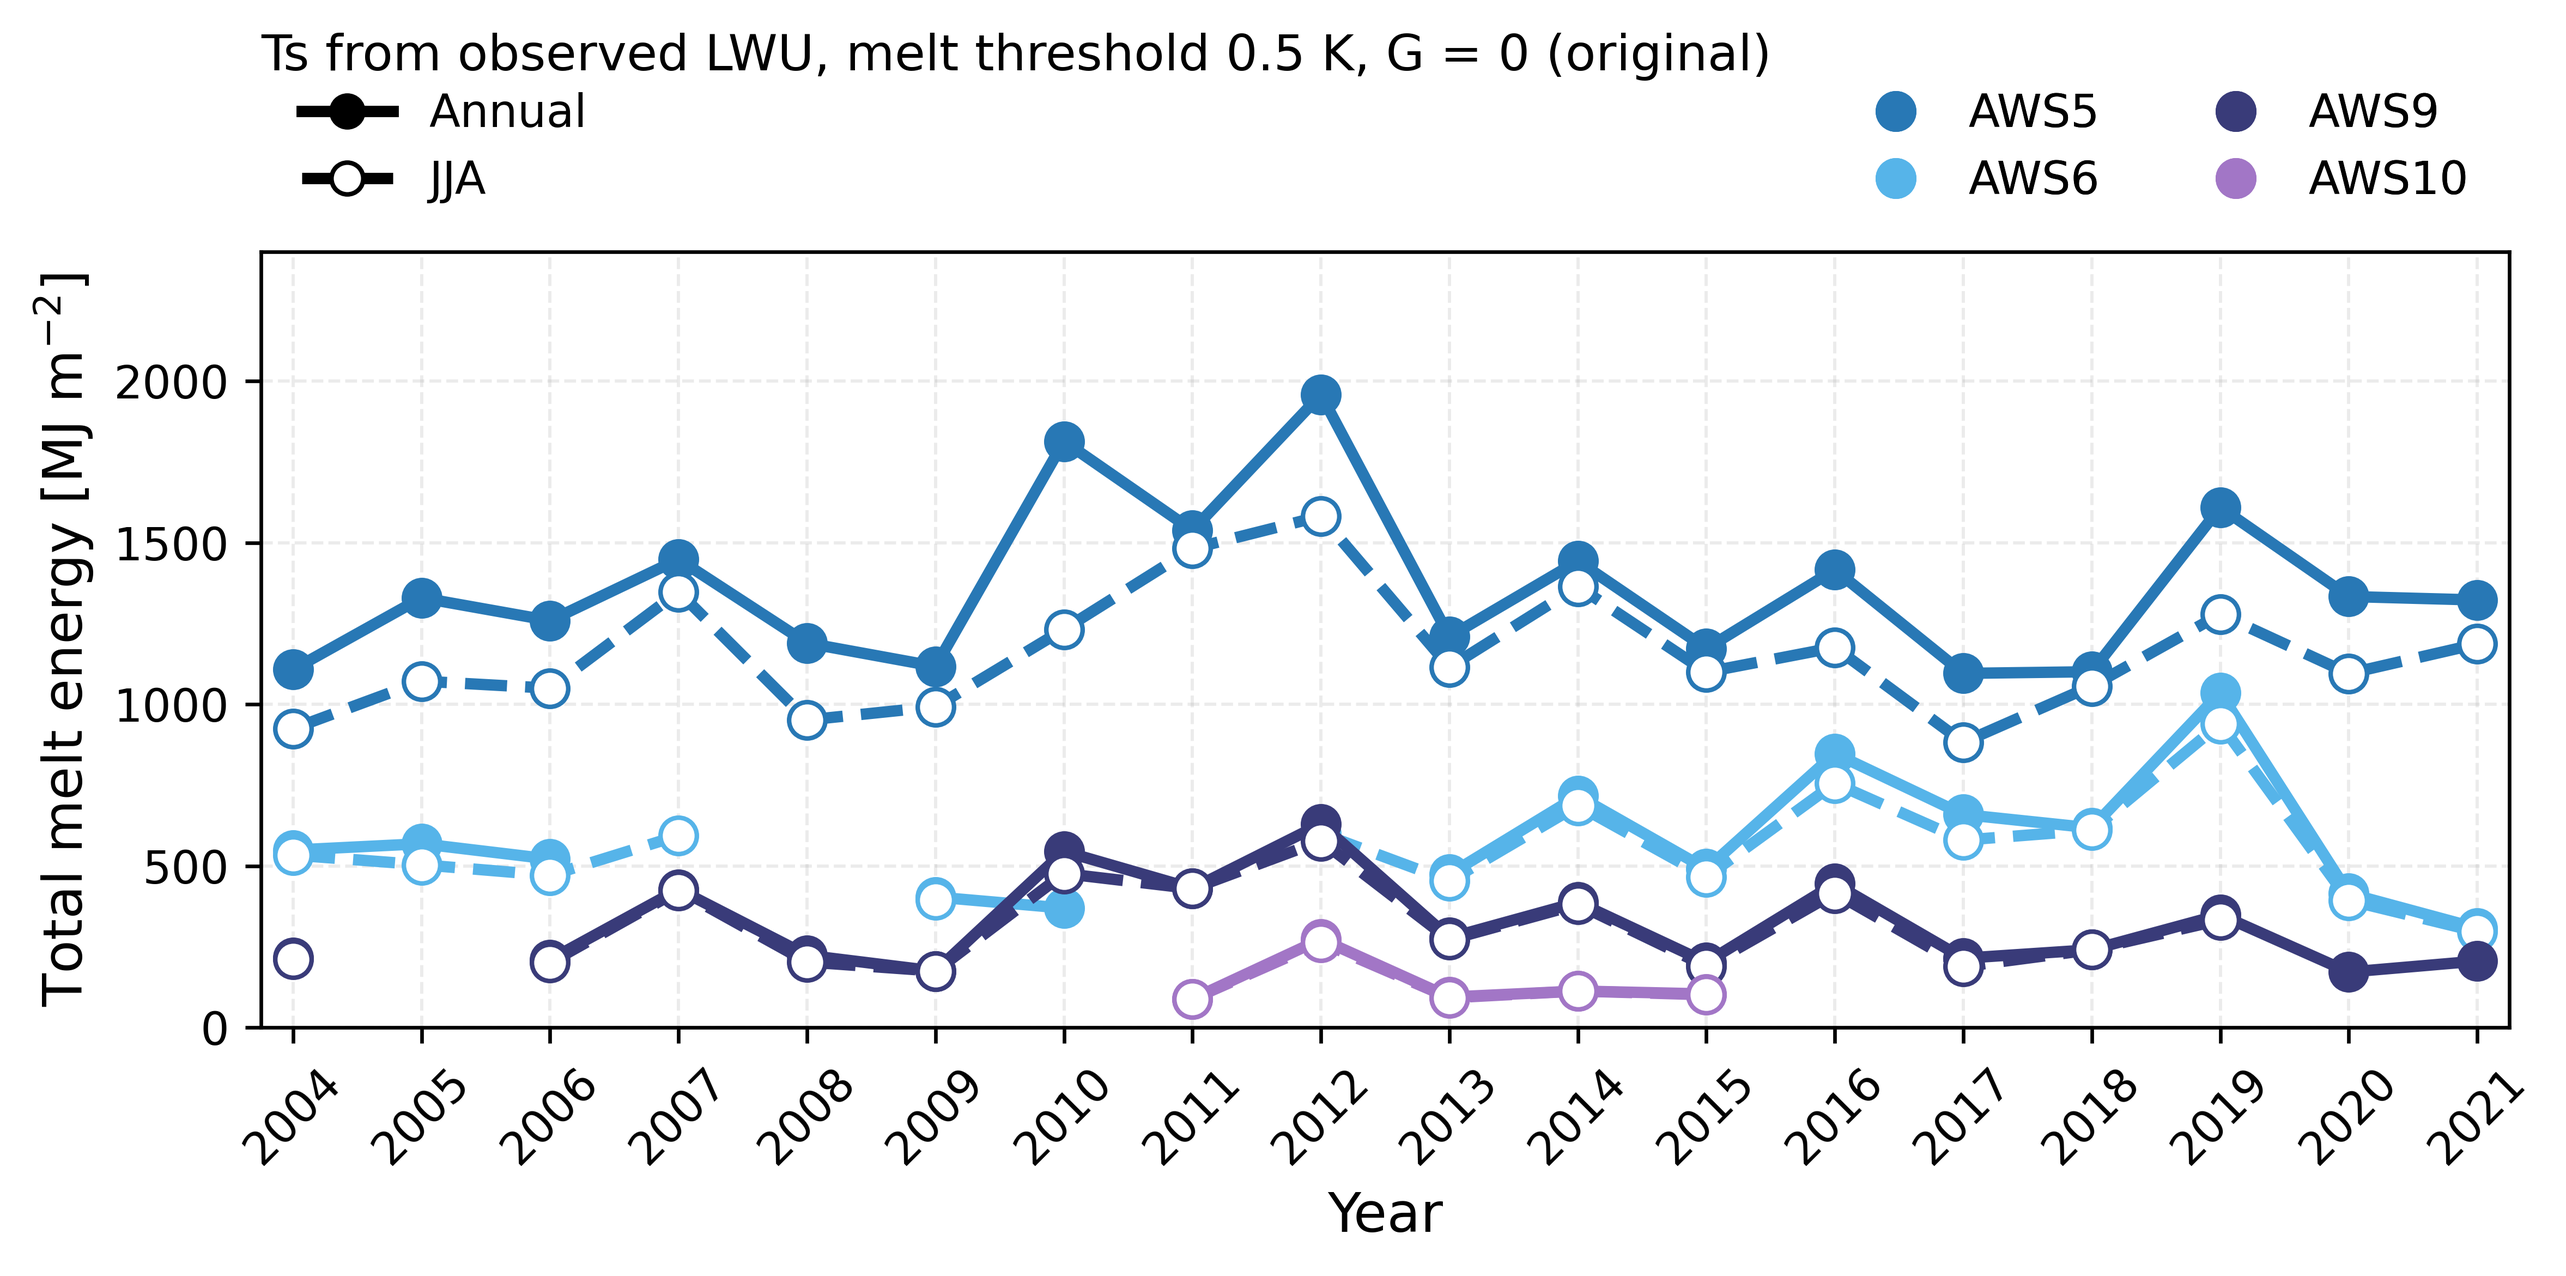
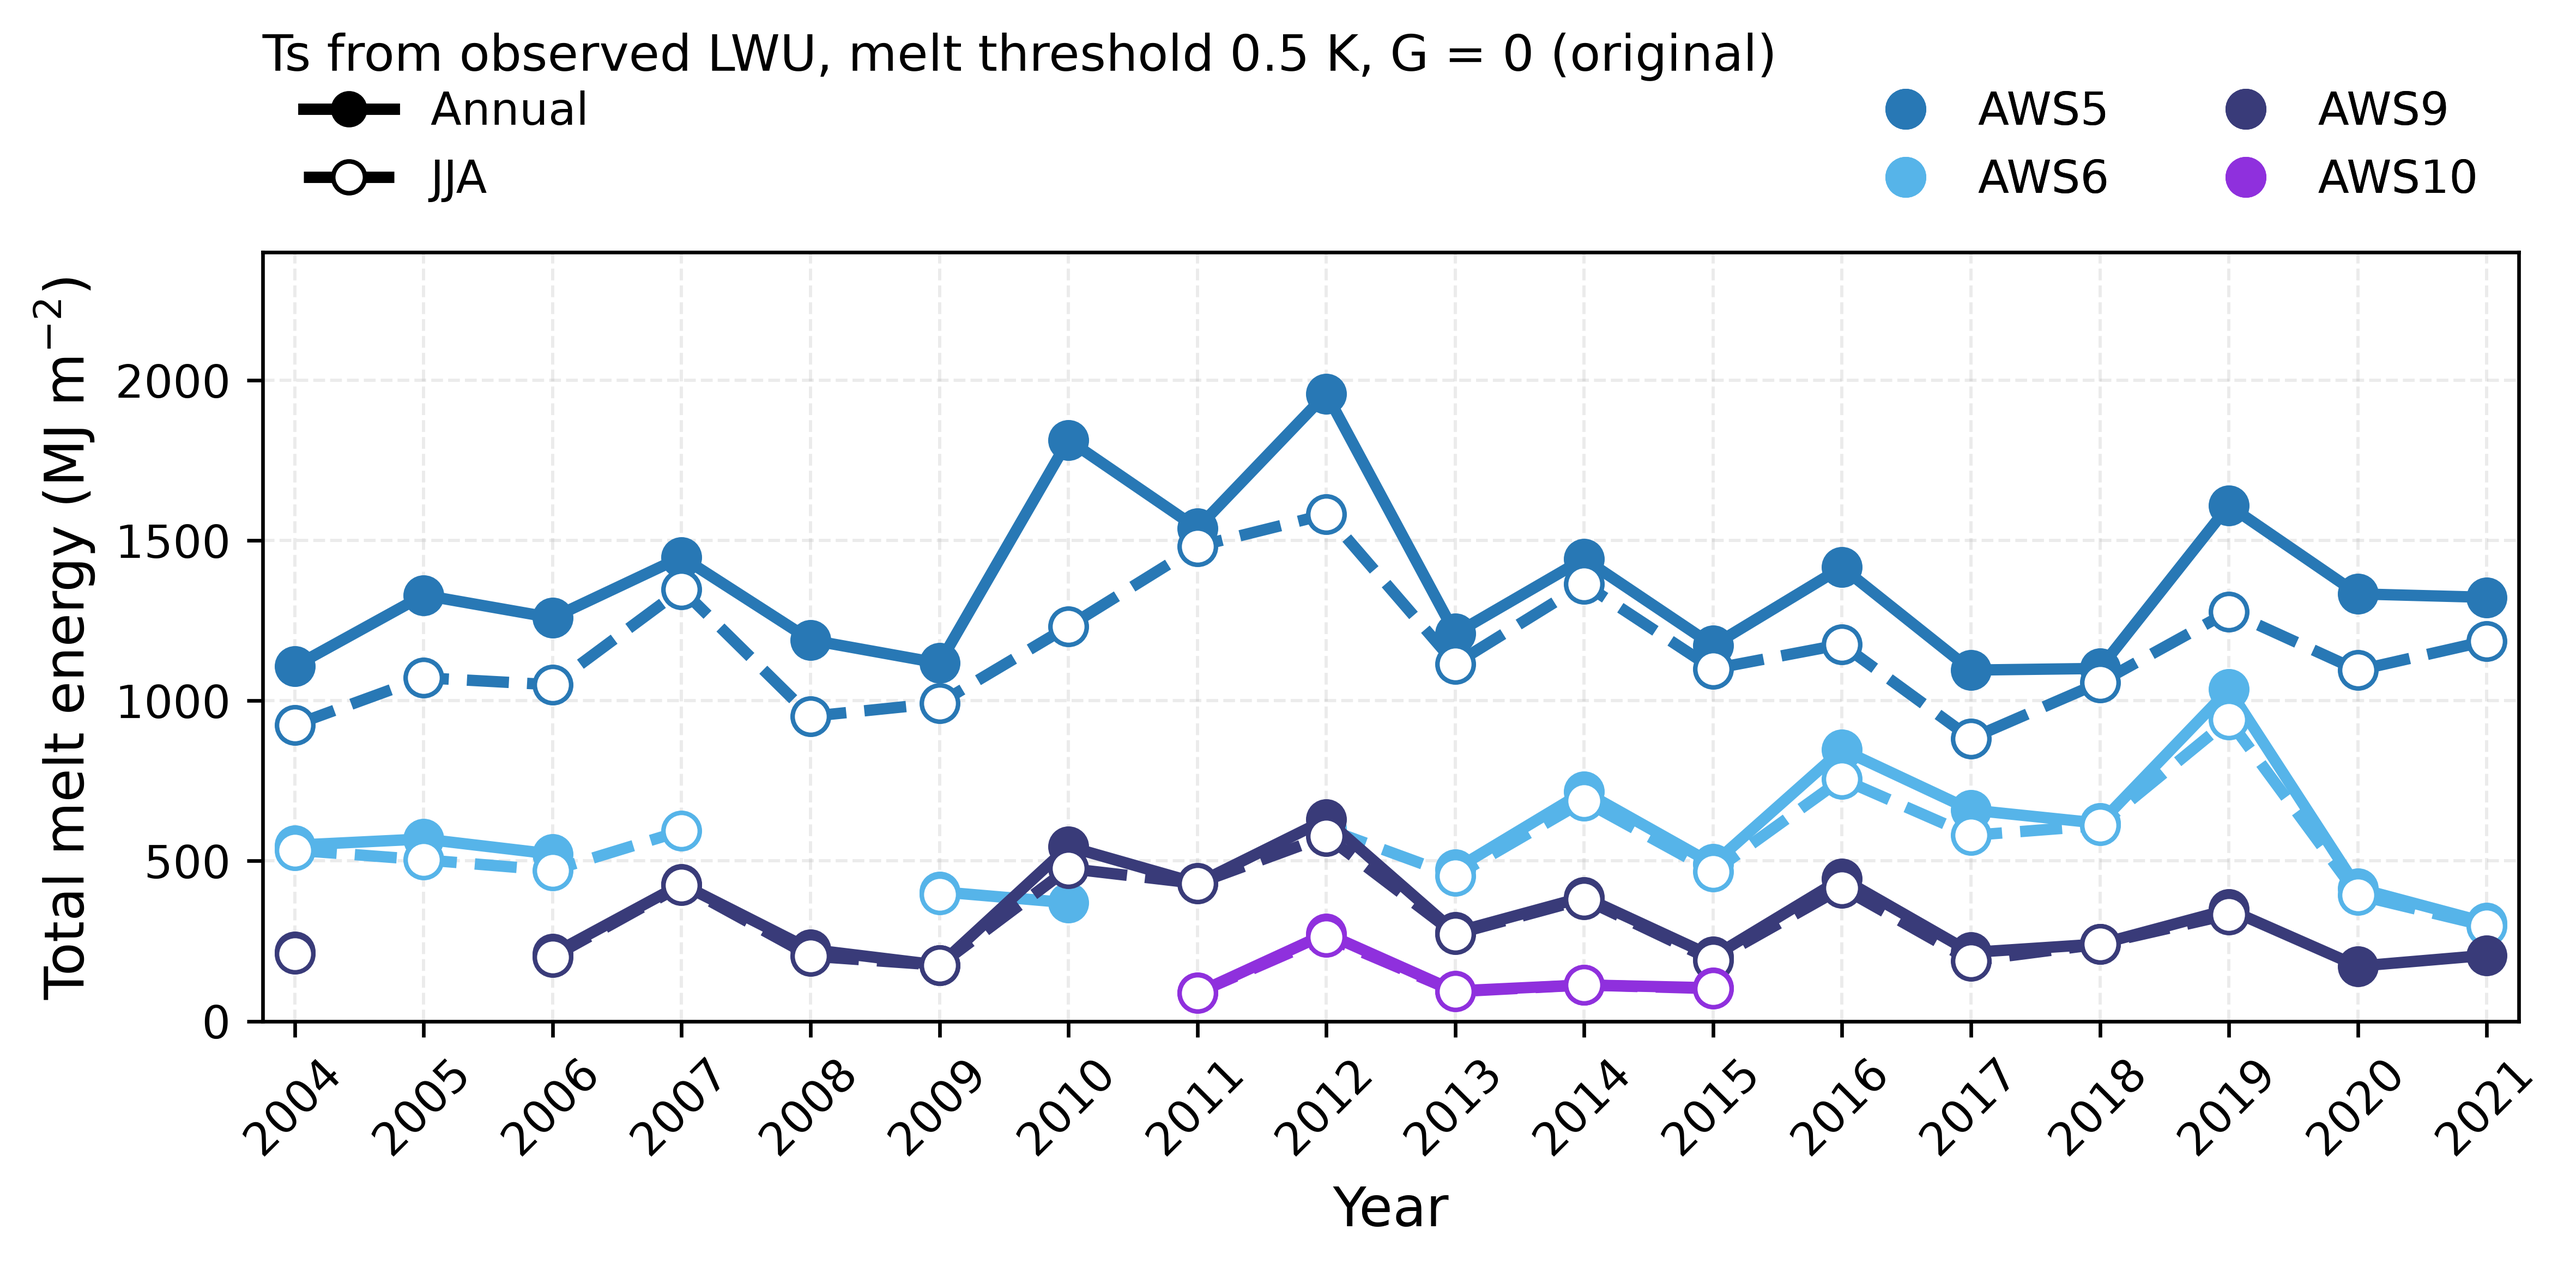
Last version plots

diff --git a/code/elevation_albedo.py b/code/elevation_albedo.py
@@ -246,7 +246,13 @@ def style(ax):
 # Vorm per station en kleur per serie voor de hoogtefiguur
 STATION_MARKERS = {"AWS5": "o", "AWS6": "s", "AWS9": "^", "AWS10": "*"}
 MARKER_SIZE = {"*": 170}   # ster oogt klein, daarom groter
-SERIES_COLORS = {"SWnet": "#2a78d6", "LWnet": "#eb6834", "SHF": "#1baf7a", "melt": "#6250d6"}
+SERIES_COLORS = {
+    "SWnet": "#7FD1C7",  # licht turquoise
+    "LWnet": "#1FA3A8",  # teal
+    "SHF":   "#2C7FA0",  # staalblauw-teal
+    "LHF":   "#0C3C5C",  # donker petrol (zelfde als in plot_partition)
+    "melt":  "#3C1B72",  # donker petrol
+}
 NEUTRAL = "#52514e"
 
 
@@ -265,7 +271,7 @@ def _gradient_series(ax, clim, v, color, label):
 def _station_legend(clim):
     from matplotlib.lines import Line2D
     return [Line2D([], [], ls="", marker=STATION_MARKERS[st], ms=13 if STATION_MARKERS[st] == "*" else 9,
-                   color=NEUTRAL, mec="white", label=f"{st} ({int(clim.loc[st, 'elevation'])} m)")
+                   color=NEUTRAL, mec="white", label=st)
             for st in clim.index]
 
 
@@ -290,13 +296,13 @@ def plot_gradients(clim_full, clim_common, grads, out):
     plt.close(fig)
 
     # --- figuur 2: energiebalanstermen (onderste x-as) en smelt (bovenste x-as) ---
-    fig, ax = plt.subplots(figsize=(9, 7.2))
+    fig, ax = plt.subplots(figsize=(7, 4))
 
     def lab(v):
         g = grads.loc[v]
-        return f"{VARS[v][0]}: {g.gradient_per_100m:+.3g} {VARS[v][1]} per 100 m (R²={g.r2:.2f})"
+        return f"{VARS[v][0]} (R² = {g.r2:.2f})"
 
-    lines = [_gradient_series(ax, clim_full, v, SERIES_COLORS[v], lab(v)) for v in ["SWnet", "LWnet", "SHF"]]
+    lines = [_gradient_series(ax, clim_full, v, SERIES_COLORS[v], lab(v)) for v in ["SWnet", "LWnet", "SHF", "LHF"]]    
     ax.axvline(0, color="#a8a7a2", lw=0.8, zorder=1)
     ax.set_xlabel("Energy flux, JJA mean (W/m²)")
     ax.set_ylabel("Elevation (m)")
@@ -314,24 +320,25 @@ def plot_gradients(clim_full, clim_common, grads, out):
     m_fit = fit_at("melt")                                      # mm w.e. op de bovenste as
     b = (w_target[1] - w_target[0]) / (m_fit[1] - m_fit[0])     # W/m² per mm w.e.
     a = w_target[0] - b * m_fit[0]
+    ax.set_xlim(right=150)          # bovenkant onderste as vast op 130 W/m²
     x0, x1 = ax.get_xlim()
     top.set_xlim((x0 - a) / b, (x1 - a) / b)
     top.set_xticks([t for t in top.get_xticks() if 0 <= t <= top.get_xlim()[1]])   # geen negatieve smelt
     # bovenste as in de kleur van de smeltlijn, zodat duidelijk is welke serie erbij hoort
-    melt_color = melt_line.get_color()
+    melt_color = "#1D0E47"
     top.set_xlabel("JJA melt (mm w.e.)", color=melt_color)
     top.tick_params(axis="x", colors=melt_color)
     top.spines["top"].set_color(melt_color)
-    ax.set_title("Surface energy balance and melt vs elevation", fontsize=11, pad=12)
 
-    # legenda's: kleur = serie, vorm = station
-    fig.legend(handles=_station_legend(clim_full), frameon=False, fontsize=9, loc="lower left",
-               bbox_to_anchor=(0.01, 0.175), ncol=4, title="Station (marker)", title_fontsize=9)
-    fig.legend(handles=lines, frameon=False, fontsize=9, loc="lower left",
-               bbox_to_anchor=(0.01, 0.03), ncol=1, title="Series (colour)", title_fontsize=9)
-    fig.text(0.99, 0.015, "Points: JJA mean over all years per station.  Dashed: linear fit.",
-             fontsize=8, color="#52514e", ha="right")
-    fig.tight_layout(rect=(0, 0.24, 1, 1))
+    series_vars = ["SWnet", "LWnet", "SHF", "LHF", "melt"]
+    short = {"SWnet": "SWnet", "LWnet": "LWnet", "SHF": "SHF", "LHF": "LHF", "melt": "Melt"}
+    series_names = [f"{short[v]} (R²={grads.loc[v].r2:.2f})" for v in series_vars]
+    leg_series = top.legend(handles=lines, labels=series_names, frameon=True, framealpha=0.9,
+                            edgecolor="none", fontsize=9, loc="upper right")
+    top.add_artist(leg_series)
+    top.legend(handles=_station_legend(clim_full), frameon=True, framealpha=0.9, edgecolor="none",
+               fontsize=9, loc="lower left", bbox_to_anchor=(0.32, 0.01), ncol=1)
+    fig.tight_layout()
     fig.savefig(out, dpi=600)
     plt.close(fig)
 
@@ -339,10 +346,11 @@ def plot_gradients(clim_full, clim_common, grads, out):
 def plot_partition(clim_full, out):
     comp = ["SWnet", "LWnet", "SHF", "LHF"]
     ccol = {
-    "SWnet": "#12A1CD",
-    "LWnet": "#EABE2E",
-    "SHF":   "#50B57F",
-    "LHF":   "#BB69DE"}
+        "SWnet": "#7FD1C7",  # licht turquoise
+        "LWnet": "#1FA3A8",  # teal
+        "SHF":   "#2A83A6",  # staalblauw-teal
+        "LHF":   "#0C3C5C",  # donker petrol
+    }
     # ccol = {"SWnet": "#278BB6", "LWnet": "#D7CF31", "SHF": "#33B422", "LHF": "#CE48A8"}
     d = clim_full.sort_values("elevation")
     fig, ax = plt.subplots(figsize=(7, 4))
@@ -352,7 +360,7 @@ def plot_partition(clim_full, out):
         ax.bar(xs + (i - 1.5) * w, d[c], width=w * 0.92, color=ccol[c], label=c)
     ax.axhline(0, color="#52514e", lw=0.8)
     ax.set_xticks(xs, [rf"$\mathbf{{{s}}}$" + f"\n{int(e)} m"for s, e in zip(d.index, d["elevation"])], fontsize=11)
-    ax.set_ylabel("W m$^{-2}$ [JJA mean]", fontsize=12)
+    ax.set_ylabel("JJA mean (W m$^{-2})$ ", fontsize=12)
     ax.tick_params(axis="y", labelsize=11)
     ax.set_title("Summer SEB components",fontsize=13)
     ax.legend(frameon=False, ncol=4, loc="upper center", bbox_to_anchor=(0.5, -0.15), fontsize=11)
@@ -360,7 +368,6 @@ def plot_partition(clim_full, out):
     fig.tight_layout()
     fig.savefig(out, dpi=600)
     plt.close(fig)
-
 
 def plot_albedo_experiment(years, out):
     sts = [s for s in mc.AWS_STATIONS if s in years["station"].unique()]

diff --git a/code/paper_reproduction.py b/code/paper_reproduction.py
@@ -381,7 +381,7 @@ def plot_annual_jja_melt(stations=STATIONS, out="figure8_annual_jja_melt.png", t
         ax.set_xticks(np.arange(first_year, last_year + 1, 1))
         ax.set_xlim(first_year + 0.75, last_year + 0.25)
         ax.tick_params(axis="x", labelrotation=45)
-    ax.set_ylabel("Total melt energy [MJ m$^{-2}$]", fontsize=12)
+    ax.set_ylabel("Total melt energy (MJ m$^{-2}$)", fontsize=12)
     ax.set_xlabel("Year", fontsize=12)
     if title:
         ax.set_title(title, fontsize=11, loc="left", pad=40)

diff --git a/code/melt_comparison.py b/code/melt_comparison.py
@@ -99,8 +99,7 @@ COLORS = {
     "AWS5":  "#2878B5",  # oceaanblauw
     "AWS6":  "#56B4E9",  # ijsblauw
     "AWS9":  "#393B79",  # diep indigo
-    "AWS10": "#A276C6",  # paars
-    "SHR":   "#008300",  # groen (eddy-covariance mast)
+    "AWS10": "#8F30DD",  # paars
 }
 # ---------------------------------------------------------------------------
 # Inlezen
